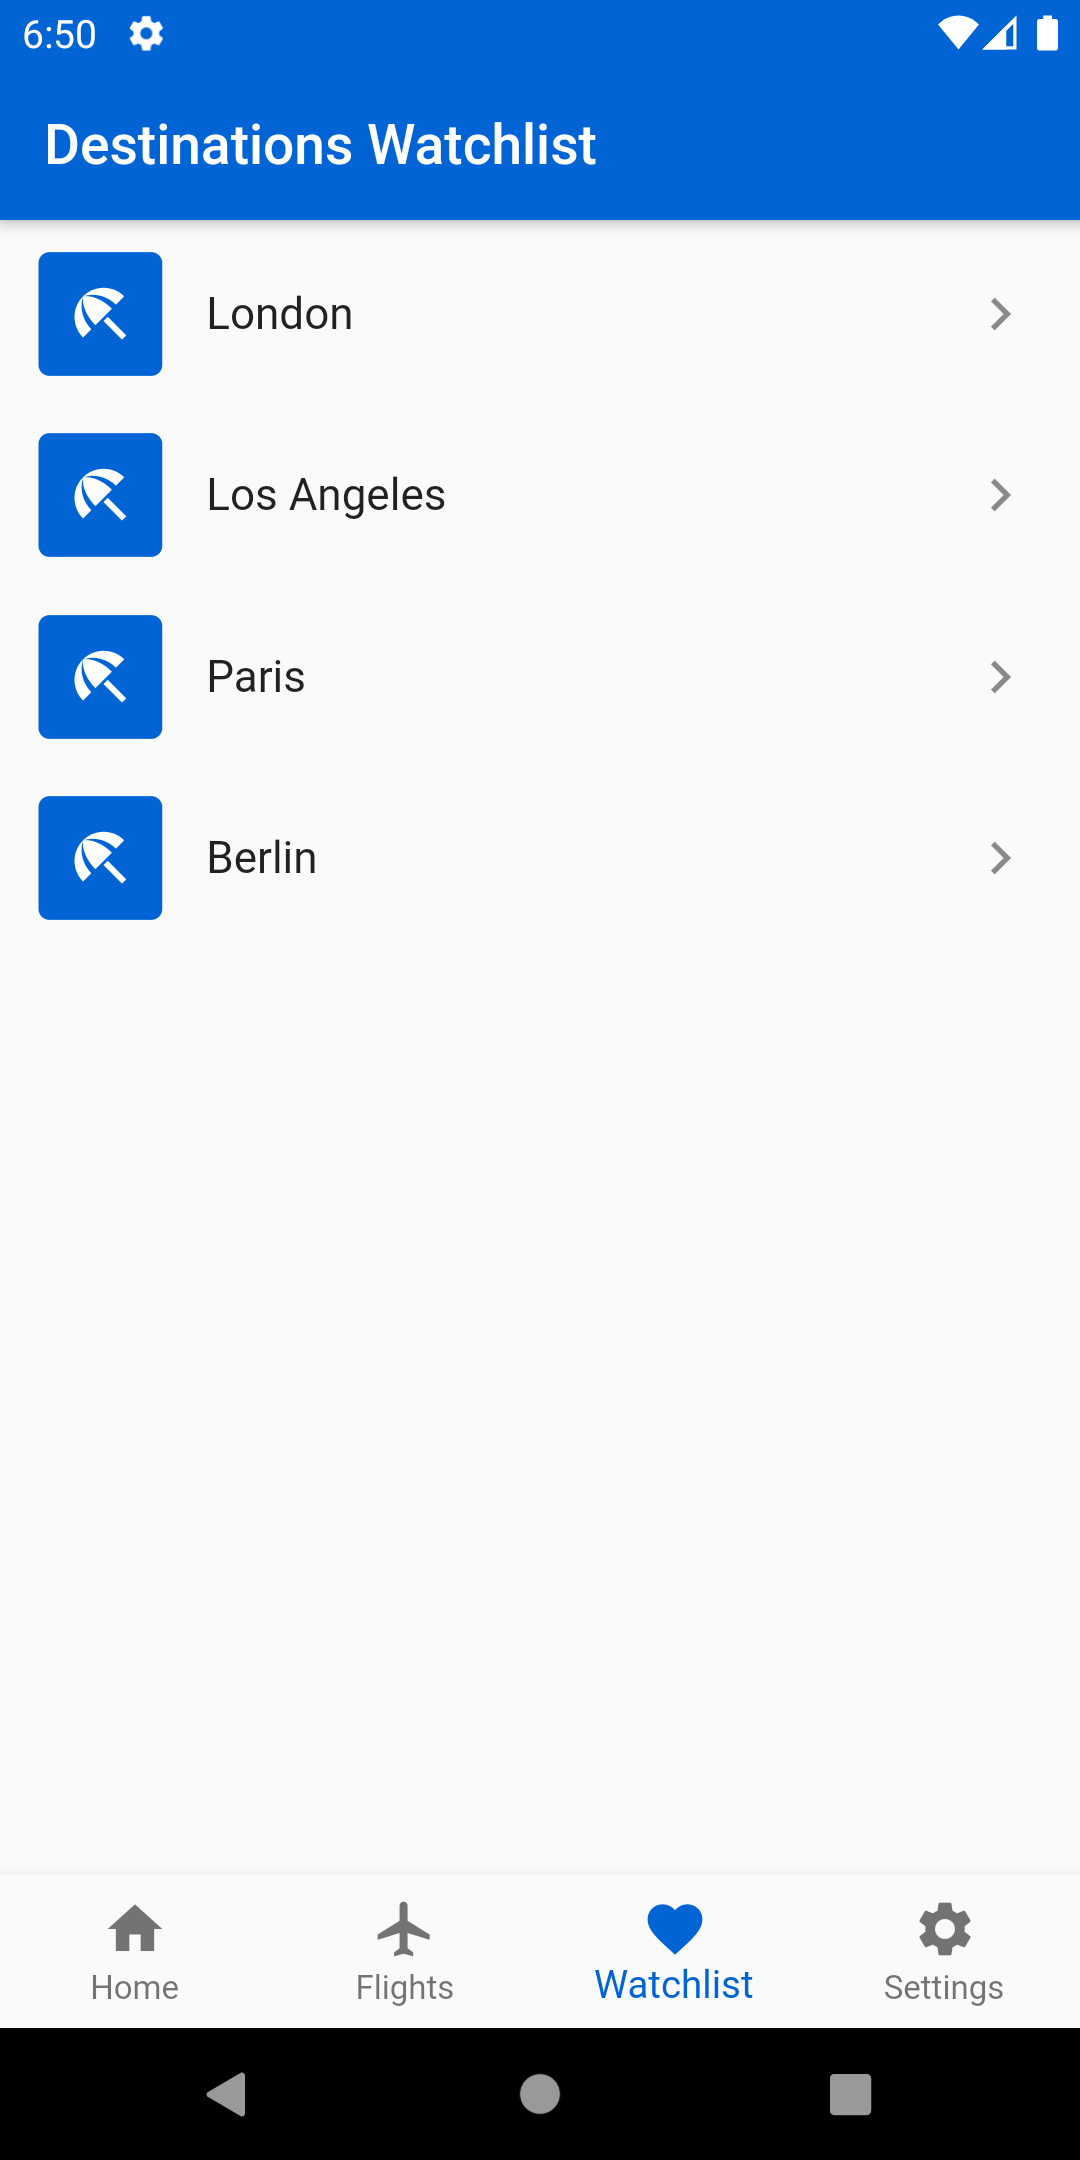
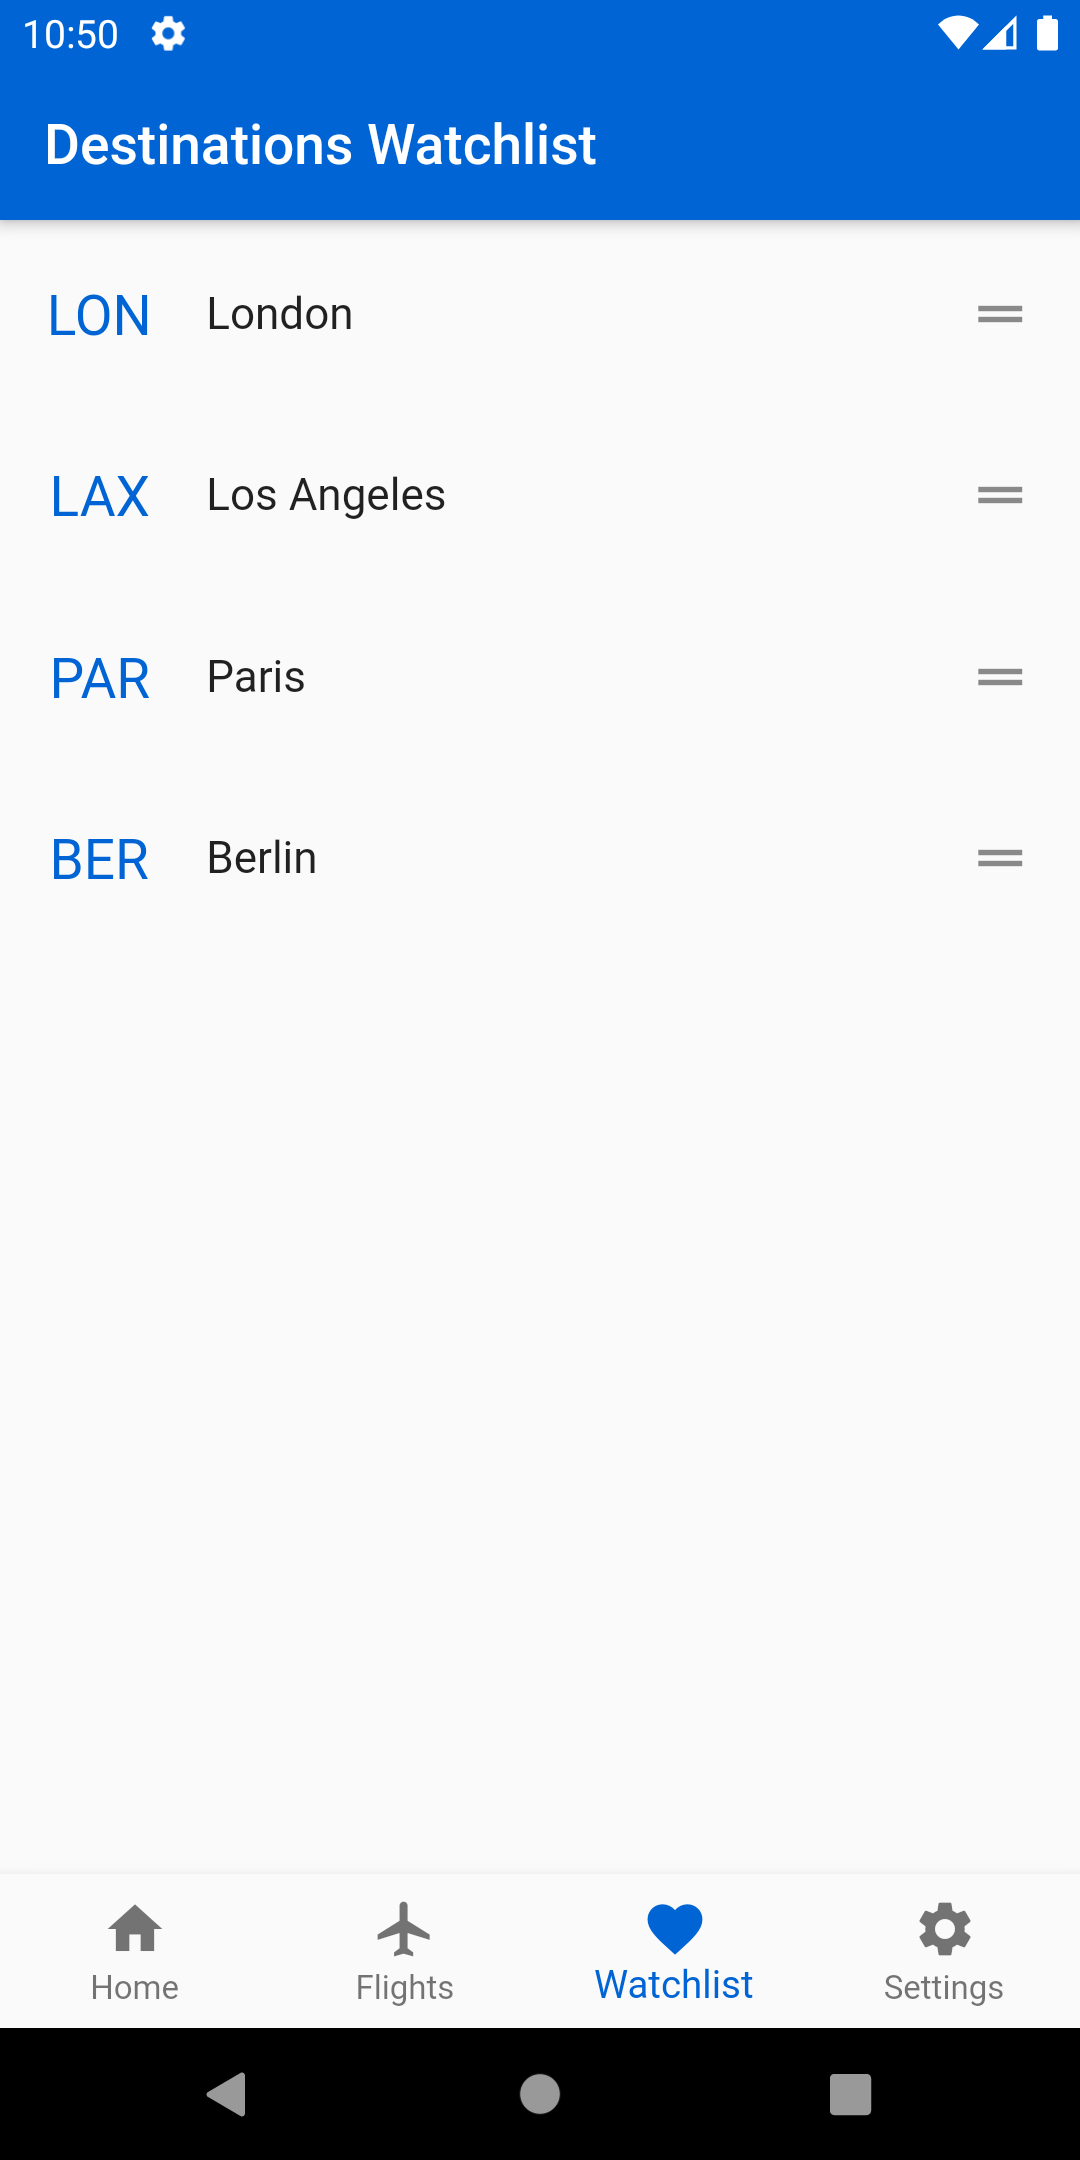
Watchlist Page styling

diff --git a/lib/presentation/pages/watchlist/local_widgets/favorite_list_tile.dart b/lib/presentation/pages/watchlist/local_widgets/favorite_list_tile.dart
@@ -2,11 +2,13 @@ import 'package:flutter/material.dart';
 
 class FavoriteListTile extends StatefulWidget {
   FavoriteListTile({
-    @required this.item,
+    @required this.cityCode,
+    @required this.cityName,
     this.onPressed,
-  }) : assert(item != null);
+  }) : assert(cityName != null);
 
-  final String item;
+  final String cityCode;
+  final String cityName;
   final VoidCallback onPressed;
 
   @override
@@ -27,30 +29,20 @@ class _FavoriteListTileState extends State<FavoriteListTile> {
             Container(
               height: 45.0,
               width: 45.0,
-              decoration: ShapeDecoration(
-                color: Theme.of(context).primaryColor,
-                shape: RoundedRectangleBorder(
-                  borderRadius: BorderRadius.all(Radius.circular(4.0)),
-                ),
-              ),
-              // BoxDecoration(
-              //   image: DecorationImage(
-              //     fit: BoxFit.cover,
-              //     image: NetworkImage(widget.assetUrl),
-              //   ),
-              // )
             ),
-            Icon(
-              Icons.beach_access,
-              color: Colors.white,
-              size: 25.0,
+            Text(
+              widget.cityCode,
+              style: TextStyle(
+                fontSize: 20.0,
+                color: Theme.of(context).primaryColor,
+              ),
             ),
           ],
         ),
-        title: Text(widget.item),
+        title: Text(widget.cityName),
         trailing: Padding(
           padding: const EdgeInsets.only(right: 3.0),
-          child: Icon(Icons.chevron_right),
+          child: Icon(Icons.drag_handle),
         ),
       ),
     );

diff --git a/lib/presentation/pages/watchlist/watchlist_page.dart b/lib/presentation/pages/watchlist/watchlist_page.dart
@@ -3,11 +3,18 @@ import 'package:flutter/material.dart';
 import 'local_widgets/favorite_list_tile.dart';
 
 class WatchlistPage extends StatelessWidget {
-  static const favorites = <String>[
+  static const cityNames = <String>[
     'London',
     'Los Angeles',
     'Paris',
     'Berlin',
+  ];
+
+  static const cityCodes = <String>[
+    'LON',
+    'LAX',
+    'PAR',
+    'BER',
   ];
 
   @override
@@ -18,7 +25,7 @@ class WatchlistPage extends StatelessWidget {
       ),
       body: Container(
         child: Center(
-          child: favorites.isEmpty
+          child: cityNames.isEmpty
               ? Column(
                   mainAxisAlignment: MainAxisAlignment.center,
                   children: [
@@ -38,12 +45,11 @@ class WatchlistPage extends StatelessWidget {
               : Padding(
                   padding: const EdgeInsets.only(top: 6.0),
                   child: ListView.builder(
-                    itemCount: favorites.length,
-                    itemBuilder: (_, index) {
-                      final item = favorites[index];
-
+                    itemCount: cityNames.length,
+                    itemBuilder: (context, index) {
                       return FavoriteListTile(
-                        item: item,
+                        cityCode: cityCodes[index],
+                        cityName: cityNames[index],
                         onPressed: () {
                           print('clicked favorite');
                         },

diff --git a/lib/presentation/pages/home/home_page.dart b/lib/presentation/pages/home/home_page.dart
@@ -122,7 +122,7 @@ class _HomePageState extends State<HomePage> {
         child: Align(
           alignment: AlignmentDirectional.centerStart,
           child: BlocBuilder<FlightDestinationSearchSwitcherCubit, int>(
-            builder: (_, state) {
+            builder: (context, state) {
               return Text(
                 (_labelTextFieldText == '')
                     ? ''
@@ -139,7 +139,7 @@ class _HomePageState extends State<HomePage> {
         height: 45.0,
         width: MediaQuery.of(context).size.width * .85,
         child: BlocBuilder<FlightDestinationSearchSwitcherCubit, int>(
-          builder: (_, state) {
+          builder: (context, state) {
             return TextField(
               onTap: () => setState(() => _labelTextFieldText = 'Quick one-way search'),
               controller: _textEditingController,
